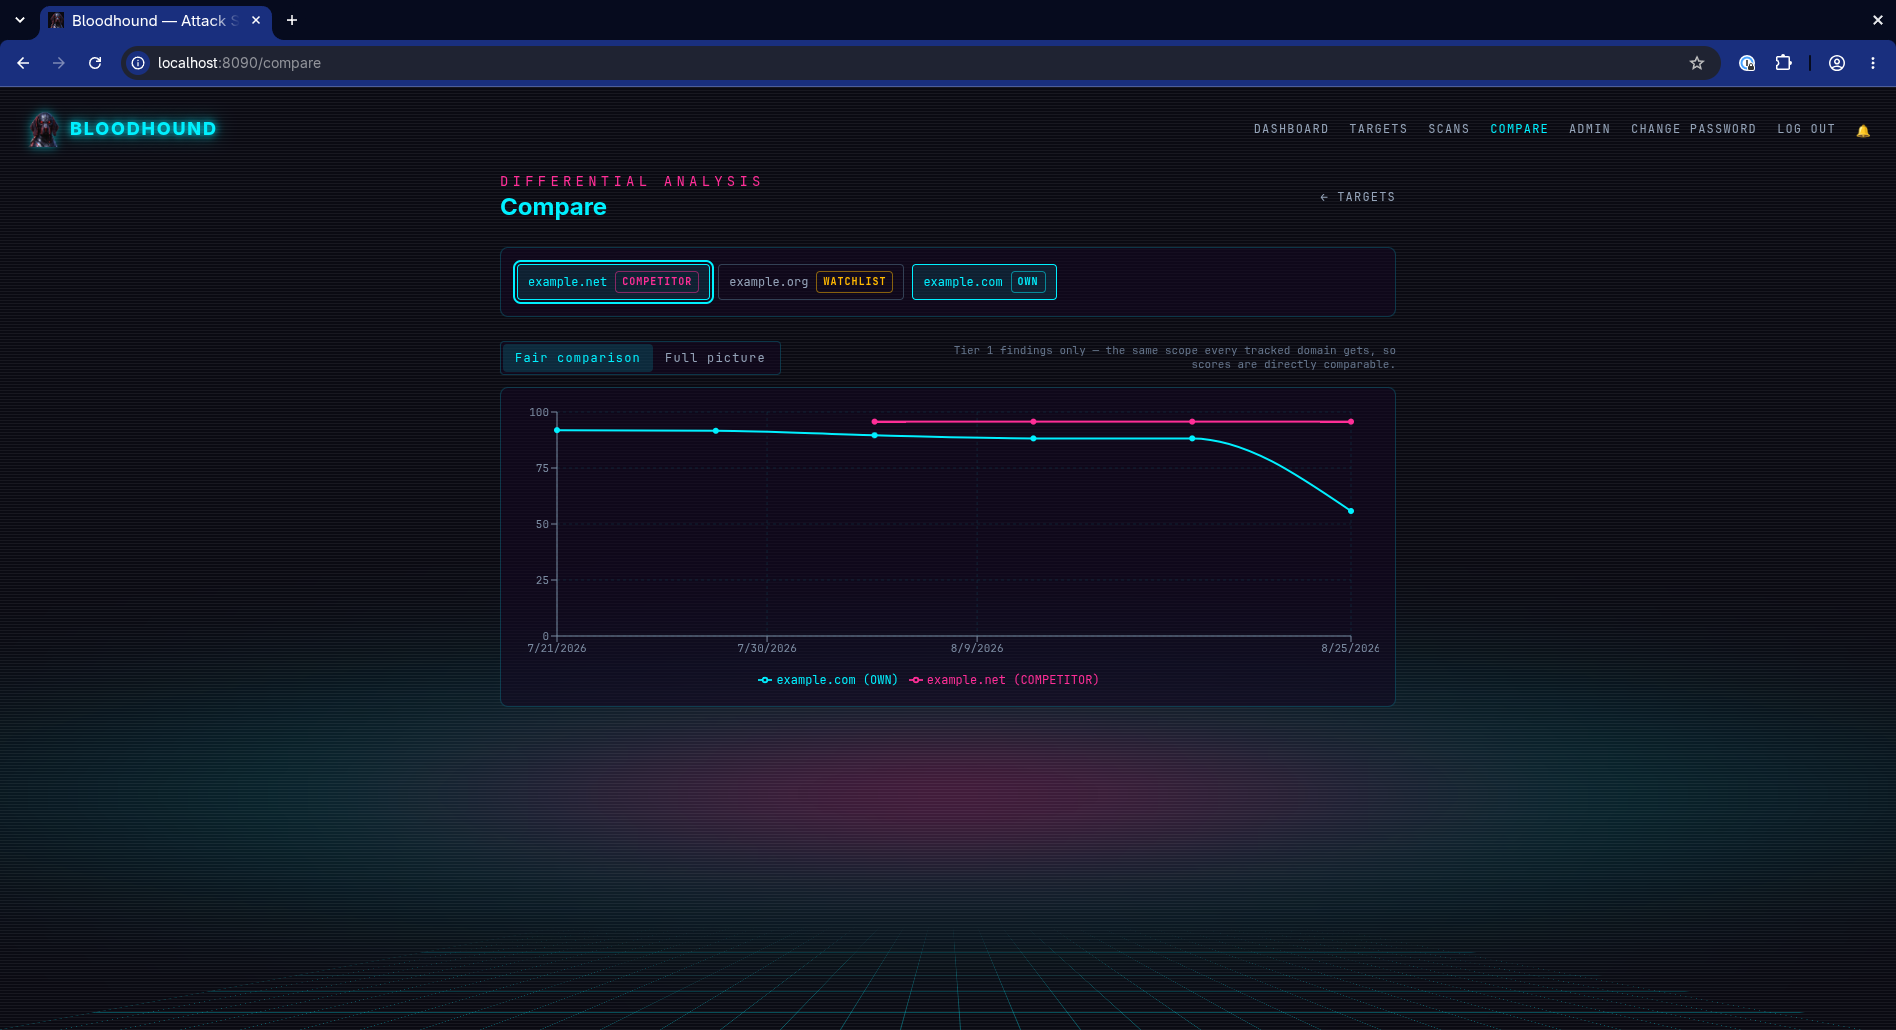
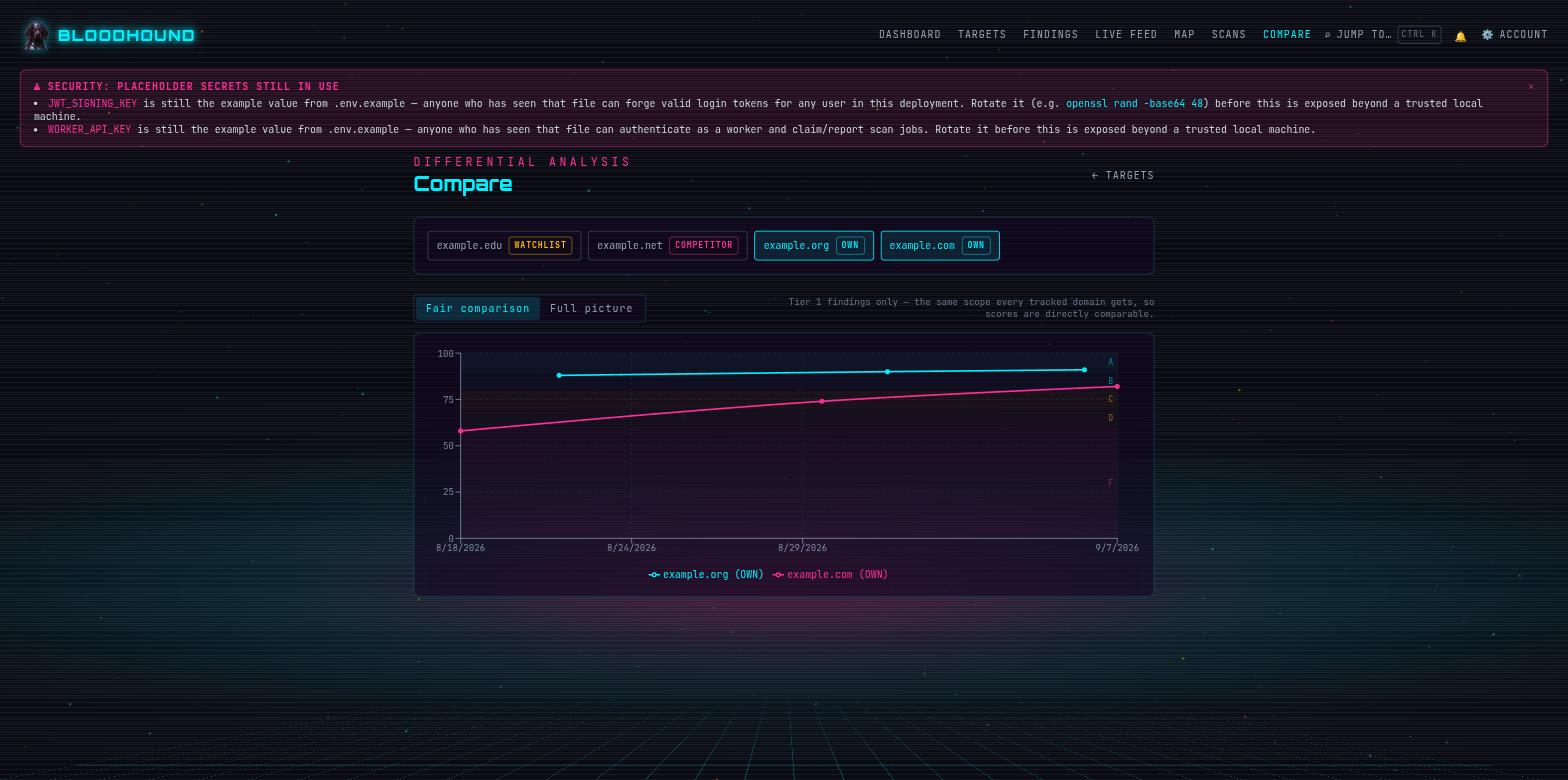
docs: update README for MCP, Attack Surface Map, Live Feed, and NS-takeover/bucket-brute-force coverage; refresh all screenshots
The README predated ~175 commits worth of product surface - two major
features (the MCP AI-agent server and the Attack Surface Map) weren't
mentioned at all, "one worker" was stale (three replicas by default now),
and the subdomain-hygiene/Tier-2 bullets didn't name NS-delegation takeover
detection or cloud-bucket brute-forcing. Also added a brief SSO/SCIM/audit-log
mention alongside the existing architecture description.

Every screenshot is regenerated against a synthetic example.com/example.net/
example.org/example.edu demo dataset (seeded, screenshotted, then removed)
rather than the real tracked-target data this deployment happened to have
loaded, so no real organization names appear in committed documentation
images.

Claude-Session: https://claude.ai/code/session_017CwwSVpDwsg1y5w1t8T3qL

diff --git a/README.md b/README.md
@@ -37,8 +37,11 @@ does so under a two-tier scanning model that keeps that legal:
 ## What it actually checks
 
 - **Subdomain hygiene** — continuous discovery (certificate transparency +
-  passive DNS sources), dangling-CNAME/subdomain-takeover detection,
-  stale/non-resolving subdomains.
+  passive DNS sources), dangling-CNAME and dangling-NS-delegation
+  subdomain-takeover detection (a subdomain independently delegated to a
+  cloud DNS provider whose hosted zone has since been deprovisioned —
+  claimable by anyone who notices, not just a single hostname's HTTP
+  response like a CNAME takeover), stale/non-resolving subdomains.
 - **DNS posture** — SPF/DMARC/DKIM, CAA, DNSSEC, MX/NS delegation health,
   zone-transfer exposure.
 - **TLS/certificates** — expiry, weak protocols/ciphers, HSTS, and
@@ -63,8 +66,9 @@ does so under a two-tier scanning model that keeps that legal:
 - **CVE correlation** — fingerprinted software versions cross-referenced
   against NVD, OSV, and CISA's Known Exploited Vulnerabilities catalog.
 - **Deep scan (Tier 2)** — full 1–65535 port discovery, best-effort service
-  identification, and OWASP ZAP active scanning (SQLi/XSS/path-traversal
-  probes) for authorized targets.
+  identification, cloud storage bucket brute-forcing (curated wordlists,
+  resumable across runs), and OWASP ZAP active scanning (SQLi/XSS/path-
+  traversal probes) for authorized targets.
 
 ![Open findings — severity, category, evidence, and score impact per finding](docs/screenshots/target-detail-findings.png)
 
@@ -76,6 +80,23 @@ findings diff (new / resolved / unchanged / severity-changed).
 ![Target detail — category score breakdown, trend chart, and Tier 2 authorization](docs/screenshots/target-detail-score.png)
 
 ![Compare — own domains plotted against competitor/watchlist targets on the same chart](docs/screenshots/compare.png)
+
+Findings across the whole org are also browsable two ways: a severity-ranked,
+filterable list for triage, and a **Live Feed** — a purely chronological,
+live-polling view (an activity histogram of when things spiked, day-by-day
+drill-down, and a non-disruptive "N new findings" banner rather than
+silently reflowing the list while you're reading) for "what's happening right
+now" instead of "what's most urgent".
+
+![Live Feed — chronological activity histogram and live-polling findings stream across the org](docs/screenshots/live-feed.png)
+
+Every tracked target, its discovered subdomains, and the platform's own
+components (central-server, Postgres, webui, live workers) also render as a
+force-directed **Attack Surface Map** — a single visual answer to "what does
+our footprint actually look like right now", with the currently-scanning
+target highlighted live.
+
+![Attack Surface Map — a force-directed graph of every tracked target, its subdomains, and the platform itself](docs/screenshots/map.png)
 
 ## Architecture
 
@@ -101,6 +122,27 @@ workers scale horizontally with no separate message broker.
 
 ![Scans — live worker status and scan history across every target](docs/screenshots/scans.png)
 
+Enterprise identity is handled the same way any of this app's other
+auth mechanisms are — a distinct, isolated path rather than a bolt-on:
+SAML SSO (any IdP, per-org configuration, admin-managed) for user login,
+and SCIM 2.0 for automated user provisioning/deprovisioning from an
+identity provider. Every admin action across the app — rule changes, user
+role/status changes, API key and SSO/SCIM config lifecycle — is written to
+a searchable, exportable audit log.
+
+## AI agent access (MCP)
+
+Bloodhound exposes a read-only [Model Context Protocol](https://modelcontextprotocol.io/)
+server so an AI agent (Claude, or any other MCP-capable client) can query an
+org's targets, findings, subdomains, and scan runs directly — the same
+data the read-only external API exposes, reachable by an agent instead of
+a script. Authentication is OAuth2 with Dynamic Client Registration
+(RFC 7591): a client self-registers and a human approves it via a normal
+consent screen, no admin has to hand-provision a client ID beforehand.
+Two independent kill switches (org-wide, and per-user) let an admin cut
+off MCP access instantly, and the admin MCP page lists every currently-
+connected client with a one-click revoke.
+
 ## Deploying it
 
 **Prerequisites:** Docker and Docker Compose.
@@ -114,15 +156,16 @@ cp .env.example .env
 Edit `.env` and generate real values for every `<generate-with-...>`
 placeholder (the file tells you the exact command for each, e.g.
 `openssl rand -base64 48`). Central-server refuses to start if
-`JWT_SIGNING_KEY` is missing or too short, and warns loudly on startup if
-any secret is still an example placeholder — don't ignore that warning in
-anything reachable beyond your own machine.
+`JWT_SIGNING_KEY` is missing or too short, and warns loudly — on startup,
+and as a banner in the UI itself for any admin who logs in — if any secret
+is still an example placeholder. Don't ignore that warning in anything
+reachable beyond your own machine.
 
 ```bash
 docker compose up -d --build
 ```
 
-This brings up Postgres, `central-server`, one `worker`, `webui`, and the
+This brings up Postgres, `central-server`, three `worker` replicas, `webui`, and the
 Tier 2 sidecars (`zap`, `screenshotter`). Postgres's schema is created
 automatically on first boot (Flyway), along with a bootstrap organization
 and admin user from the `BOOTSTRAP_*` variables in `.env`. The dev/test
